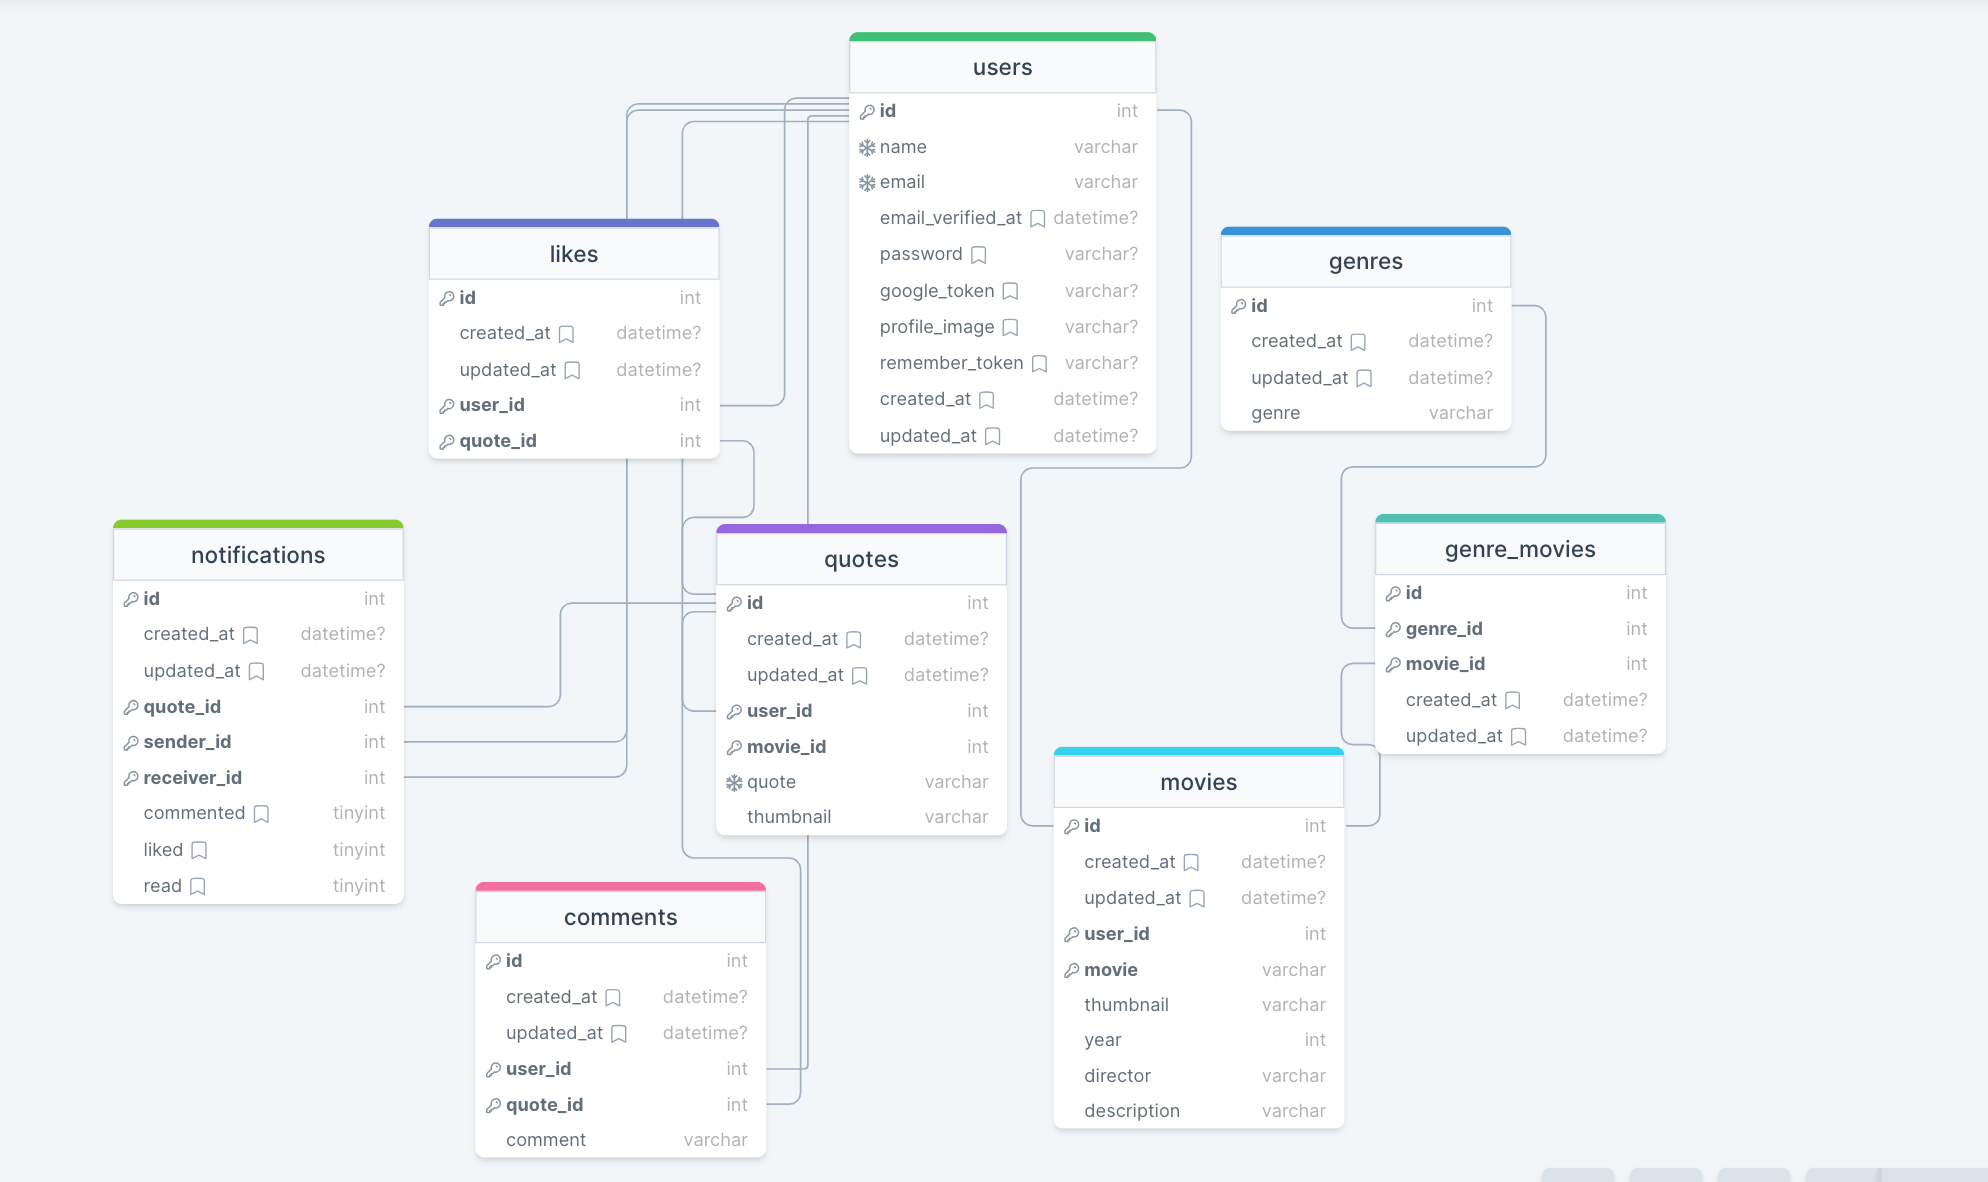
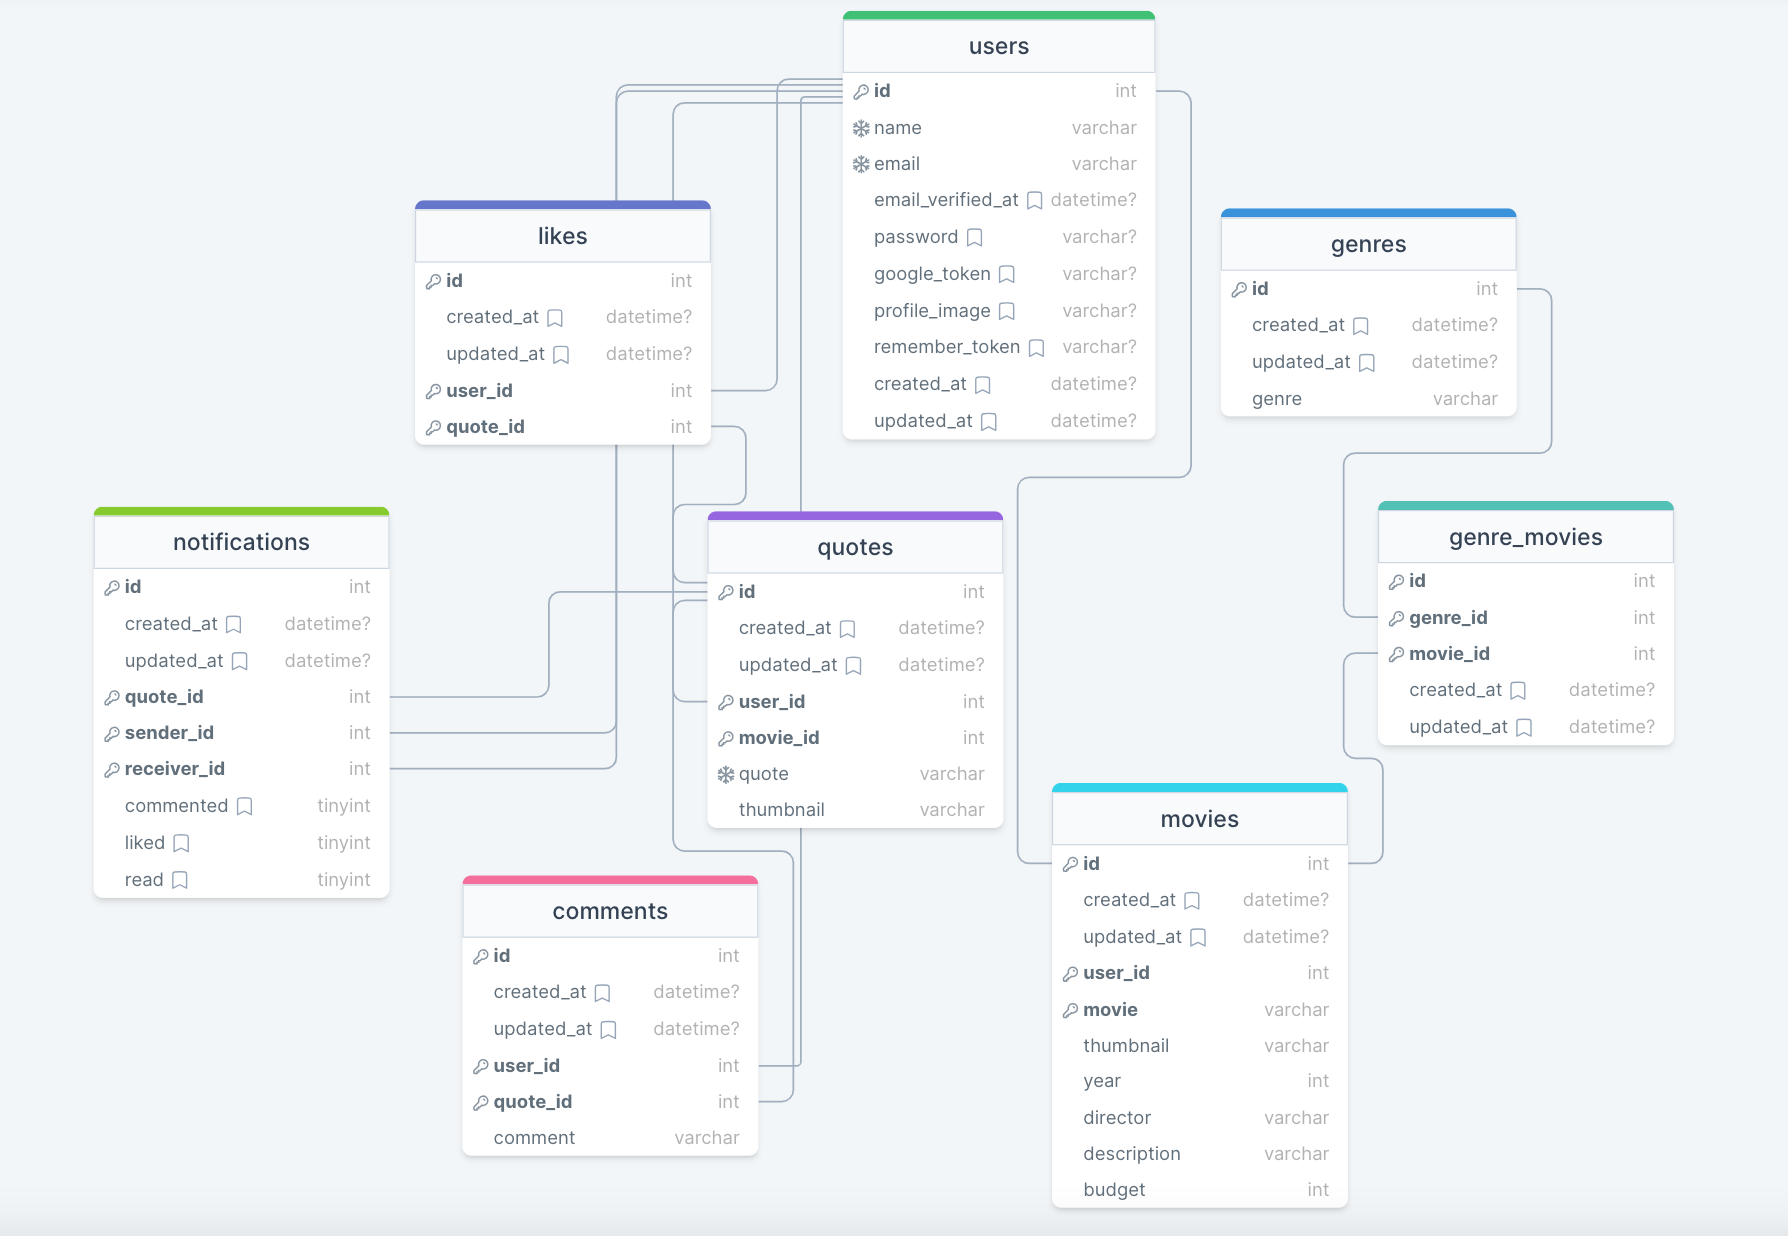
fix(movies table): implement income column

diff --git a/movie-quotes-back/app/Http/Requests/Movie/UpdateMovieRequest.php b/movie-quotes-back/app/Http/Requests/Movie/UpdateMovieRequest.php
@@ -17,15 +17,16 @@ class UpdateMovieRequest extends FormRequest
 		$movieId = $this->route('movie');
 
 		return [
-			'movie_en'       => ['sometimes', Rule::unique('movies', 'movie->en')->ignore($movieId)],
-			'movie_ka'       => ['sometimes', Rule::unique('movies', 'movie->en')->ignore($movieId)],
-			'thumbnail'      => ['sometimes', 'image'],
-			'year'           => ['sometimes', 'integer'],
-			'director_en'    => ['sometimes'],
-			'director_ka'    => ['sometimes'],
-			'description_en' => ['sometimes'],
-			'description_ka' => ['sometimes'],
-			'genre_ids'      => ['sometimes', 'array', 'min:1', Rule::exists('genres', 'id')],
+			'movie_en'             => ['sometimes', Rule::unique('movies', 'movie->en')->ignore($movieId)],
+			'movie_ka'             => ['sometimes', Rule::unique('movies', 'movie->en')->ignore($movieId)],
+			'thumbnail'            => ['sometimes', 'image'],
+			'year'                 => ['sometimes', 'integer'],
+			'director_en'          => ['sometimes'],
+			'director_ka'          => ['sometimes'],
+			'description_en'       => ['sometimes'],
+			'description_ka'       => ['sometimes'],
+			'budget'               => ['sometimes', 'integer'],
+			'genre_ids'            => ['sometimes', 'array', 'min:1', Rule::exists('genres', 'id')],
 		];
 	}
 }

diff --git a/movie-quotes-back/app/Http/Controllers/Movie/MovieController.php b/movie-quotes-back/app/Http/Controllers/Movie/MovieController.php
@@ -66,6 +66,7 @@ class MovieController extends Controller
 				'ka' => $attributes['description_ka'],
 			], 'year' => $attributes['year'],
 			'thumbnail' => $request->file('thumbnail')->store('thumbnails'),
+			'budget'    => $attributes['budget'],
 		]);
 
 		$genreIds = $attributes['genre_ids'];
@@ -116,6 +117,7 @@ class MovieController extends Controller
 					'en' => $attributes['description_en'],
 					'ka' => $attributes['description_ka'],
 				], 'year' => $attributes['year'],
+				'budget' => $attributes['budget'],
 			];
 
 			if ($request->hasFile('thumbnail')) {

diff --git a/movie-quotes-back/app/Http/Requests/Movie/StoreMovieRequest.php b/movie-quotes-back/app/Http/Requests/Movie/StoreMovieRequest.php
@@ -21,6 +21,7 @@ class StoreMovieRequest extends FormRequest
 			'description_en'       => ['required'],
 			'description_ka'       => ['required'],
 			'year'                 => ['required', 'integer'],
+			'budget'               => ['required', 'integer'],
 			'director_en'          => ['required'],
 			'director_ka'          => ['required'],
 			'genre_ids'            => ['required', 'array', 'min:1', Rule::exists('genres', 'id')],

diff --git a/movie-quotes-back/database/factories/MovieFactory.php b/movie-quotes-back/database/factories/MovieFactory.php
@@ -32,9 +32,10 @@ class MovieFactory extends Factory
 				'ka' => fake('ka_GE')->realText(10),
 			],
 			'description' => [
-				'en' => fake()->sentence,
-				'ka' => fake('ka_GE')->realText(10),
+				'en'     => fake()->sentence,
+				'ka'     => fake('ka_GE')->realText(10),
 			],
+			'budget' => fake()->numberBetween(100, 1000),
 		];
 	}
 }

diff --git a/movie-quotes-back/app/Http/Resources/MovieResource.php b/movie-quotes-back/app/Http/Resources/MovieResource.php
@@ -25,6 +25,7 @@ class MovieResource extends JsonResource
 			'genres'       => $this->whenLoaded('genres'),
 			'description'  => $this->getTranslations('description'),
 			'year'         => $this->year,
+			'budget'       => $this->budget,
 		];
 	}
 }

diff --git a/movie-quotes-back/database/migrations/2023_06_01_123211_create_movies_table.php b/movie-quotes-back/database/migrations/2023_06_01_123211_create_movies_table.php
@@ -19,6 +19,7 @@ return new class extends Migration {
 			$table->integer('year');
 			$table->string('director');
 			$table->string('description');
+			$table->integer('budget');
 		});
 	}
 
